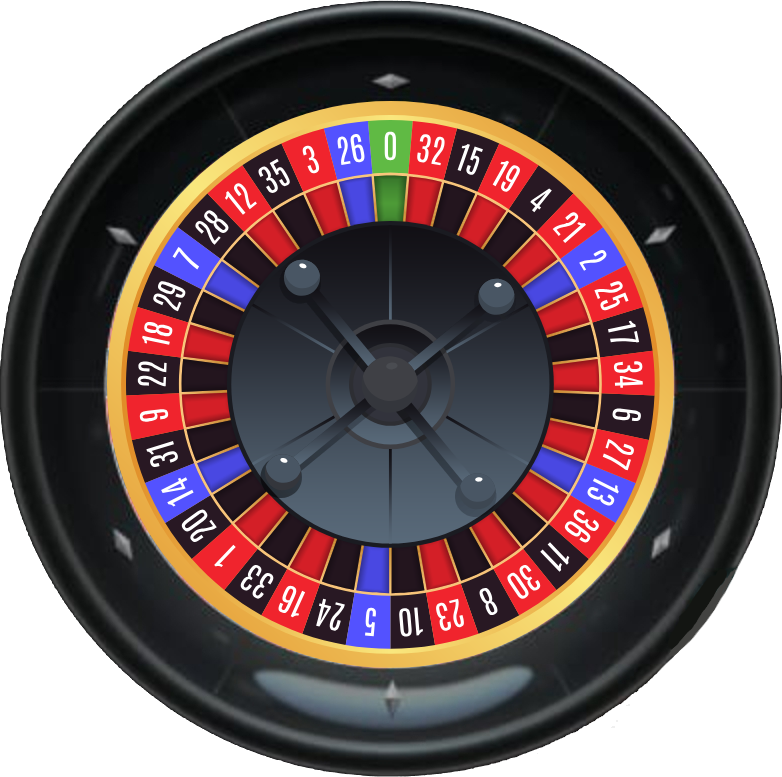
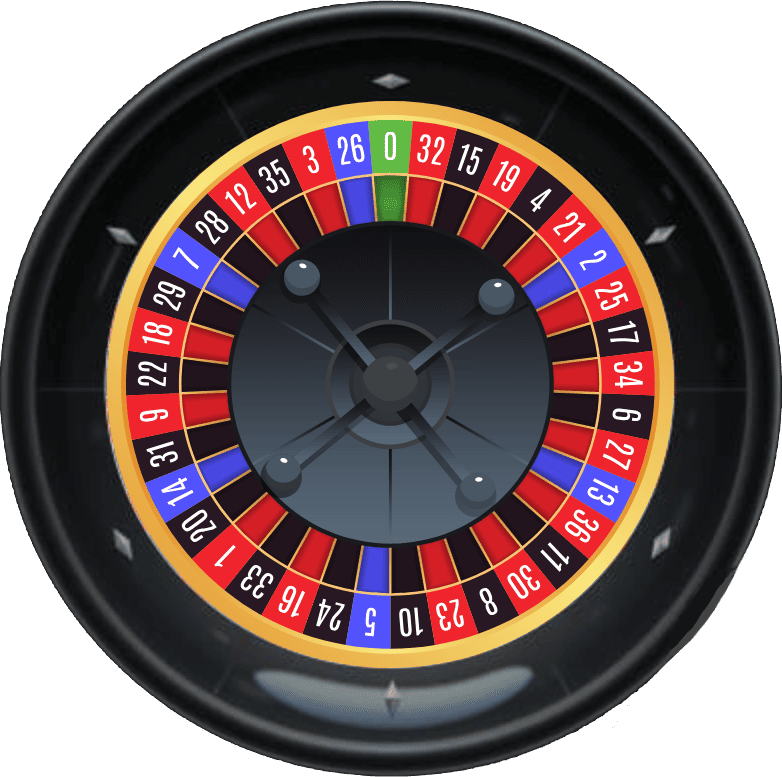
jh

diff --git a/src/rollet/pages/Home/Home.js b/src/rollet/pages/Home/Home.js
@@ -577,9 +577,9 @@ function Home() {
             >
               <div className=" !flex !justify-center !items-center animation_image z-50">
                 <img
-                  src={roulette}
+                  src={roulette || 'https://s3-anand-media-bucket-file-system.s3.eu-north-1.amazonaws.com/roulette_image.png'}
                   alt=""
-                  className="!h-full !w-full !bg-no-repeat "
+                  className="!h-full !w-full !bg-no-repeat"
                 />
                 <Rolletball />
               </div>
